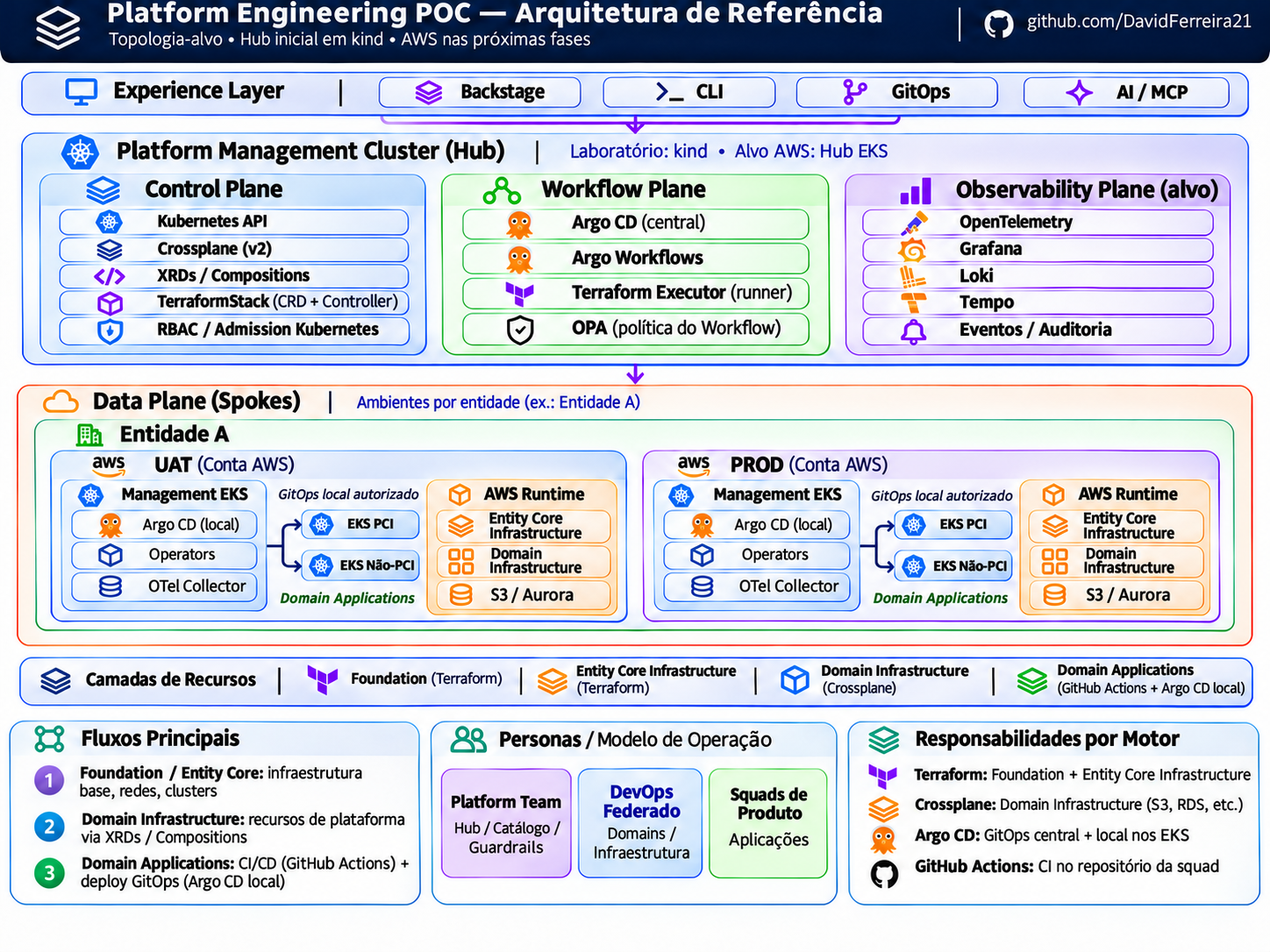
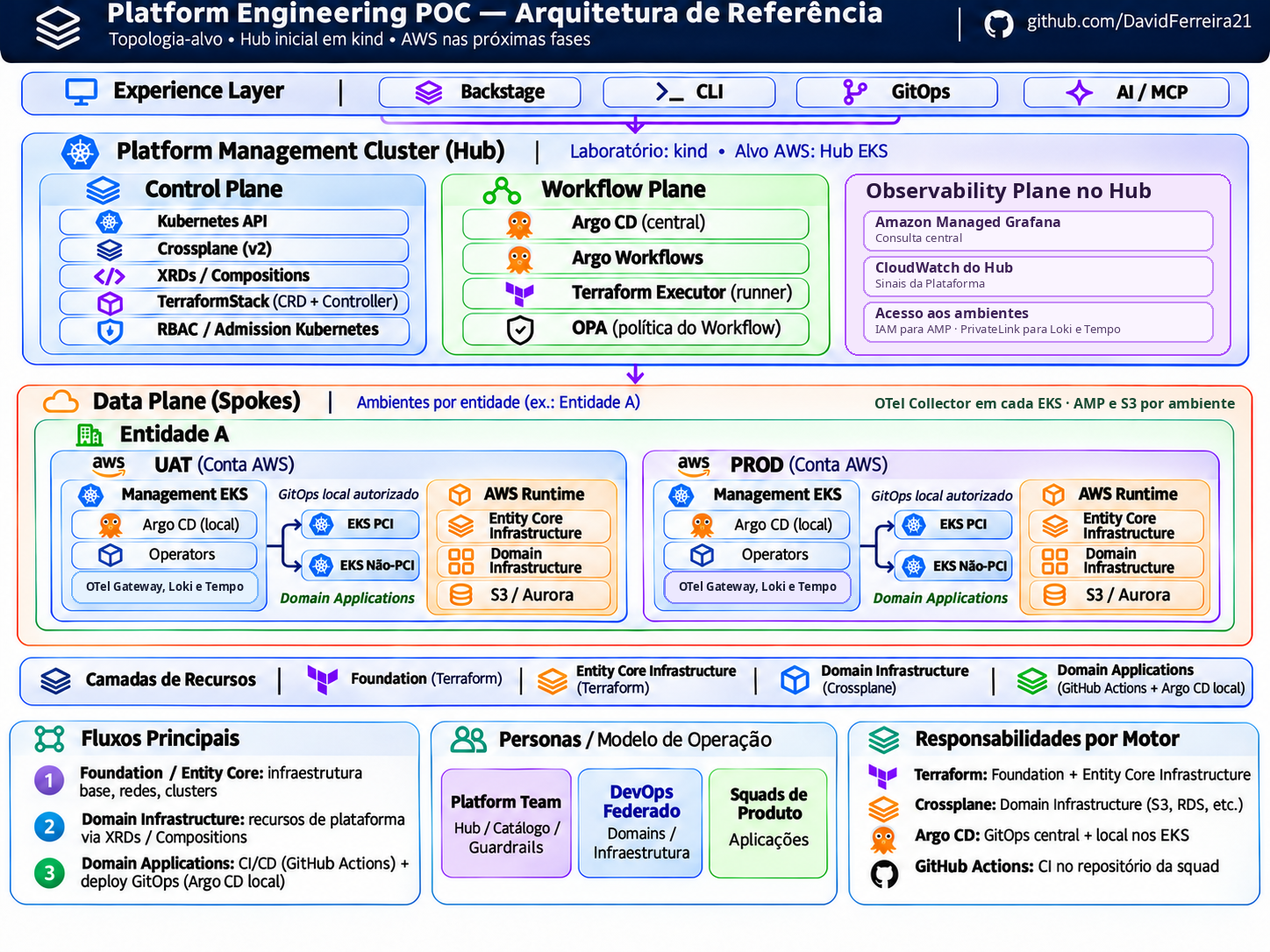
docs: registra a topologia de observabilidade da POC

diff --git a/docs/flows/observability.md b/docs/flows/observability.md
@@ -1,0 +1,48 @@
+# Fluxo de observabilidade
+
+[← Arquitetura](../architecture.md) · [ADR-0010](../adr/0010-observability-topology.md) · [Observability Plane](../../observability-plane/README.md)
+
+O fluxo descreve a **topologia-alvo da POC**. Os sinais do TerraformStack já existem no laboratório. A coleta e os backends AWS entram nas Etapas 26 e 27, começando em UAT. O diagrama mostra uma conta de Environment por vez. UAT e PROD seguem o mesmo modelo com recursos e permissões próprios.
+
+![Topologia de observabilidade com Grafana no Hub, Collectors nos três EKS do ambiente, AMP e backends Loki e Tempo no Management EKS](observability-flow.png)
+
+[Abrir diagrama em tamanho completo](observability-flow.png)
+
+## Caminhos de ingestão e consulta
+
+| Origem | Métricas | Logs e traces |
+| :--- | :--- | :--- |
+| EKS Non-PCI | OTel Collector local → AMP do ambiente via `remote_write` | OTel Collector local → OTel Gateway do Management EKS |
+| EKS PCI, após validação do isolamento | OTel Collector local → AMP autorizado | OTel Collector local → Gateway autorizado |
+| Management EKS | OTel Collector local → AMP do ambiente, incluindo o scrape do Argo CD local | OTel Collector local → Gateway no próprio cluster |
+| Hub da Plataforma | Métricas operacionais essenciais → CloudWatch do Hub | Logs e demais sinais operacionais aplicáveis → CloudWatch do Hub |
+
+O Gateway encaminha logs ao **Loki** e traces ao **Tempo**. Os dois backends rodam no Management EKS e persistem seus blocos no S3 do ambiente. Traces entram quando o componente estiver instrumentado e configurado para exportá-los. O Grafana consulta o AMP para métricas e as APIs de Loki e Tempo para logs e traces. O S3 é armazenamento dos backends, e o Gateway recebe telemetria.
+
+No Management EKS, por exemplo, o Argo CD local expõe métricas Prometheus de saúde e sincronização. O Collector faz o scrape e envia as séries diretamente ao AMP. O AMP armazena e disponibiliza séries para consulta, portanto o scrape pode funcionar com o Collector e sem um servidor Prometheus autogerenciado no cluster. [Métricas do Argo CD](https://argo-cd.readthedocs.io/en/stable/operator-manual/metrics/) · [Ingestão de métricas no AMP](https://docs.aws.amazon.com/prometheus/latest/userguide/AMP-ingest-methods.html)
+
+## Fronteiras e ownership
+
+| Recurso | Responsabilidade |
+| :--- | :--- |
+| Collectors, Gateway, Loki e Tempo | Platform Team define configuração e distribuição de add-ons por perfil via Argo CD central. |
+| AMP, S3, conectividade privada, Grafana e IAM | Platform Team provisiona os recursos AWS declarativamente por Terraform e concede acessos por origem e destino. |
+| Instrumentação da aplicação | A squad instrumenta código e configura a exportação no próprio repositório. Argo CD local entrega os manifests nos clusters autorizados. |
+| Alertas e dashboards | A plataforma mantém o baseline de coleta, saúde e falhas de ingestão. As squads definem os sinais da aplicação e os limites operacionais do seu Domain. |
+
+O Managed Grafana usa uma conexão à VPC da Plataforma para alcançar, via PrivateLink, as APIs privadas de leitura de cada ambiente. O desenho prevê interface endpoint na VPC do Hub e endpoint service com NLB e proxy autenticado na VPC do ambiente. O proxy limita o acesso a Loki e Tempo. O Grafana consulta o AMP pela API AWS, com IAM cross-account. Validar DNS, TLS, permissões, conectividade aos endpoints AWS e acesso por datasource na Etapa 26. [Conectividade VPC do Grafana](https://docs.aws.amazon.com/grafana/latest/userguide/AMG-configure-vpc.html) · [Serviços via PrivateLink](https://docs.aws.amazon.com/vpc/latest/privatelink/privatelink-share-your-services.html)
+
+Atribuir Entity, Environment, cluster e serviço aos sinais de forma consistente. Para diagnóstico, correlacionar estado e Events da API Kubernetes com a revisão Git, a aplicação Argo CD, a execução do Workflow e as condições do Crossplane. Aplicar políticas de conteúdo e acesso antes da ingestão e testar consulta com identidades de escopos distintos. Excluir credenciais, dados sensíveis, conteúdo de planos e state da telemetria. Preferir dimensões de cardinalidade controlada para métricas.
+
+## Critérios de aceite
+
+| Etapa | Evidência esperada |
+| :--- | :--- |
+| **26 — UAT** | Gerar métrica, log e trace correlacionáveis a partir de uma aplicação Non-PCI. Consultar os três no Grafana. Confirmar que métricas do Argo CD local chegam ao mesmo AMP via o Collector do Management EKS. Conferir que os sinais essenciais do Hub podem ser consultados no CloudWatch. |
+| **27 — Falha controlada** | Interromper o Gateway em UAT, confirmar novas amostras dos workloads no AMP e receber alerta por um check fora do Management EKS. Após recuperar o Gateway, medir o que ficou em fila e o que se perdeu em logs e traces. Registrar custo de ingestão, consulta e armazenamento. |
+| **30 — PCI, quando autorizado** | Testar acesso à ingestão e consulta com identidades PCI e Non-PCI. Confirmar que acessos indevidos são negados no backend e que permissões na fonte de dados refletem a fronteira aprovada. |
+| **31 — PROD, quando provisionado** | Validar workspaces, armazenamento, identidade e consultas segregadas. Repetir a falha controlada em UAT e confirmar continuidade dos sinais de PROD. |
+
+Quando o Management EKS inteiro estiver indisponível, Loki e Tempo também deixam de servir consultas temporariamente. Dados já persistidos ficam no S3 e as métricas já ingeridas ficam consultáveis no AMP. A retenção em fila é limitada pela configuração e pela capacidade do Collector. [Resiliência dos Collectors](https://opentelemetry.io/docs/collector/resiliency/) · [Permissões de datasources no Managed Grafana](https://docs.aws.amazon.com/grafana/latest/userguide/data-source-permissions.html)
+
+[← Arquitetura](../architecture.md) · [Etapas de observabilidade e operação](../learning-roadmap.md#fase-6--observabilidade-operação-e-governança)

diff --git a/docs/adr/0010-observability-topology.md b/docs/adr/0010-observability-topology.md
@@ -1,0 +1,36 @@
+# ADR-0010 — Observabilidade por ambiente com consulta central
+
+[← Decisões](README.md) · [Arquitetura](../architecture.md) · [Fluxo de observabilidade](../flows/observability.md)
+
+**Estado:** decisão aceita, implementação pendente · **Data:** 28/11/2026
+
+## Contexto
+
+A POC tem uma conta AWS da Plataforma e contas distintas para UAT e PROD. Cada Environment prevê um Management EKS, um EKS PCI e um EKS Non-PCI. O Management EKS executa o Argo CD local e concentra serviços de gestão do ambiente. A equipe precisa investigar aplicações, GitOps e provisionamento durante falhas do próprio Management EKS.
+
+Este ADR consolida a topologia de observabilidade descrita nos [ADR-0002](0002-topology-and-ownership.md), [ADR-0003](0003-reconciliation-and-gitops.md) e [ADR-0006](0006-terraformrun-and-application-ci.md). O [ADR-0008](0008-managed-argocd-connectivity.md) define a conectividade para GitOps.
+
+## Decisão
+
+- **Cada cluster coleta sua própria telemetria.** Management EKS, PCI e Non-PCI têm OTel Collectors locais no desenho-alvo. A coleta do Management EKS inclui as métricas Prometheus do Argo CD local e os sinais disponíveis dos add-ons.
+- **Métricas chegam diretamente ao AMP do ambiente.** Cada coletor envia via Prometheus `remote_write`, autenticado com IAM/SigV4. Um workspace do Amazon Managed Service for Prometheus (AMP) por Environment concentra as séries autorizadas. O Gateway do Management EKS fica fora do caminho de métricas dos workloads.
+- **Logs e traces são processados no ambiente.** Os coletores enviam ao OTel Gateway do Management EKS do próprio Environment. O Gateway encaminha logs ao Loki e traces ao Tempo. Os dois backends usam armazenamento S3 na mesma conta AWS.
+- **Amazon Managed Grafana no Hub é o ponto central de consulta.** O Grafana consulta os workspaces AMP via IAM cross-account e as APIs de leitura do Loki e Tempo por AWS PrivateLink, com conexão à VPC do Hub e um proxy autenticado no ambiente. Essa conexão é dedicada à observabilidade e preserva VPCs sem peering ou Transit Gateway.
+- **O Hub tem um caminho próprio.** CloudWatch recebe os sinais operacionais essenciais do Hub conforme a interface de cada componente. A investigação correlaciona logs, métricas e Events do TerraformStack com revisão Git, Workflow e condições do Crossplane. Para serviços AWS, usar compartilhamento via CloudWatch cross-account dentro da mesma região quando aplicável. Um check externo ao Management EKS sinaliza perda de ingestão.
+
+O Platform Team mantém a instrumentação-base, os add-ons e os acessos. Terraform provisiona os recursos AWS do plano; o Argo CD central distribui os componentes Kubernetes da plataforma via GitOps segundo o perfil de cada cluster. O Argo CD local entrega as aplicações do Domain. O mesmo recurso deve ter um único reconciliador.
+
+## Alternativas avaliadas
+
+| Alternativa | Avaliação |
+| :--- | :--- |
+| Roteamento dos três sinais pelo Management EKS | Simplifica o encaminhamento. Uma falha do Gateway interrompe também a ingestão de métricas dos workloads. |
+| Loki e Tempo compartilhados no Hub | Reduz o número de instalações. Amplia a dependência do Hub durante falhas e concentra tráfego e dados de ambientes distintos. |
+| AMP direto por ambiente e backends de logs/traces no Management EKS | Mantém a ingestão de métricas independente do Gateway e permite exercitar Loki e Tempo na POC com os clusters já planejados. |
+
+## Consequências e validação
+
+- Quando o Management EKS fica indisponível, os workloads que continuam em execução seguem enviando métricas ao AMP. O caminho de logs e traces fica indisponível até a recuperação do Gateway e dos backends. Medir filas, retries e perda. Testar a persistência da fila onde a recuperação após reinício for necessária.
+- Tratar o uso da mesma ingestão e dos mesmos backends por PCI e Non-PCI como hipótese do desenho. Antes de habilitar telemetria PCI, validar acesso de escrita e leitura, retenção, conteúdo permitido e a fronteira exigida. Se o requisito incluir isolamento de ingestão, armazenamento ou falhas, usar componentes separados para PCI. Permissões de painel do Grafana organizam a visualização; os controles de consulta devem ser aplicados à fonte de dados e ao backend.
+- Para uma operação de produção com requisitos mais fortes de disponibilidade, a ingestão e a consulta necessárias ao diagnóstico devem sobreviver à perda do cluster de gestão. Serviços gerenciados ou infraestrutura de observabilidade com ciclo de vida próprio são opções para esse cenário.
+- O aceite começa em UAT com Management e Non-PCI nas Etapas 26–27. PCI e PROD entram quando autorizados nas Etapas 30–31. A disposição dos componentes está decidida. Dimensionamento, retenção, custo e evidências de recuperação permanecem para as validações previstas. [Roteiro](../learning-roadmap.md#fase-6--observabilidade-operação-e-governança)

diff --git a/AGENTS.md b/AGENTS.md
@@ -24,7 +24,7 @@ Escrever os documentos **na voz do próprio projeto**, em português brasileiro 
 - **Entity / Environment / Domain:** conceitos lógicos e **registros declarativos no Git**. Entity organiza; Environment mapeia UAT/PROD à conta AWS/região; Domain é unidade de negócio, consumo, políticas e ownership de aplicações, namespaces e Capabilities. **Não criar CRD/XRD** para esses três na primeira etapa.
 - **Workflow Plane:** Argo CD central aplica CRs de Capability na Kubernetes API; Argo Workflows realiza Foundation e EKS por integrações cadastradas; o Terraform Executor e o handshake são usados na implementação de referência. Argo CD não executa Terraform. **Não implementar Environment Controller próprio como dependência inicial**.
 - **GitOps AWS:** adotar EKS Capability for Argo CD como Argo CD central no Hub EKS; manter Argo CD autogerenciado em kind e Argo CD local nos Management EKS. VPCs Platform/UAT/PROD isoladas com NAT, sem Peering/TGW. Registrar Hub e spokes por ARN, Access Entries e RBAC; não presumir conectividade de Pods. [ADR-0008](docs/adr/0008-managed-argocd-connectivity.md).
-- **Observability Plane:** métricas, logs, traces, eventos e auditoria.
+- **Observability Plane:** Managed Grafana e CloudWatch do Hub na conta da Plataforma. Cada EKS envia métricas direto ao AMP do ambiente. Logs e traces seguem pelo Gateway para Loki/Tempo no Management EKS, com S3 do ambiente. Validar ingestão e consulta antes de habilitar PCI. [ADR-0010](docs/adr/0010-observability-topology.md).
 - **Data Plane:** `data-plane/<entity>/core-infrastructure/{uat,prod}/` organiza recursos comuns; `data-plane/<entity>/domains/<domain>/` organiza uma identidade única e recursos/aplicações por ambiente. Ambos pertencem ao Data Plane; **Environment não equivale a Core**.
 - **Applications:** Argo CD local do Management EKS aplica namespaces, policies e workloads em PCI/Non-PCI **somente se o isolamento permitir**.
 - **Topologia-alvo:** UAT e PROD são contas AWS separadas; cada uma inclui Management EKS, EKS PCI, EKS Non-PCI e AWS Runtime. EKS Auto Mode preferido, sob validação de custo/operadores/PCI. Hub é `kind` inicialmente. Sem MSK na primeira versão.
@@ -42,7 +42,7 @@ Os YAMLs `domain.yaml` e `environment.yaml` são registros lógicos no Git. Vali
 - **Ownership padrão:** Foundation → Entity Core Infrastructure → Domain Infrastructure → **Domain Applications**.
 - **TerraformStack.** O CRD da Etapa 04 declara `sourceRef.repository/path/version` (default `latest`), `context` opcional, `workflowRef.name` opcional, `dependsOn`, `suspend`, `reconciliation` e `lifecycle`. O Argo CD central sincroniza a intenção. O controller da Etapa 05 agenda uma tentativa ativa por CR, via adapter Argo, sem interpretar contexto, Git, backend ou resultado de OPA. Integrações são cadastradas com aliases e default; `contract.authorization` tem default `true` e pode ser `false` por integração compatível. Sem handshake, o controller não infere apply nem cancela automaticamente a execução ativa; submissão ambígua ou Workflow perdido bloqueiam replay. A pipeline de referência da Etapa 06 resolve Git e destino, fixa o vínculo do state, aplica o plano autorizado após claim atômico e publica o resultado tipado. Preserve idempotência, plan imutável, isolamento e destroy governado. O primeiro apply aprovado na AWS entra na Etapa 13; drift e políticas, nas Etapas 28 e 29. Cada tentativa é um Argo Workflow; não criar outro CRD de execução. Logs JSON, Events e métricas de saúde por CR são responsabilidade passiva do controller em `internal/observability`, sem dependência de backends externos ou alteração do contrato. Não registrar segredos, tokens, planos ou state em telemetria. [Execution Contract](docs/flows/terraformstack-execution-contract.md)
 - **CI/CD de aplicação:** GitHub Actions **e os manifests Kubernetes da aplicação** deverão ficar junto ao código **no repositório de aplicação separado, previsto para etapa posterior**. Este monorepo mantém apenas manifests da **Domain Infrastructure**, configurações de plataforma e validações das etapas. Argo CD **local** entrega workloads via GitOps.
-- **Management EKS:** Argo CD local, espaço para **Operators ainda não escolhidos**, e **OpenTelemetry Collector/gateway** de telemetria para backend central **Grafana, Loki e Tempo**. Prometheus/métricas e segregação PCI serão validados.
+- **Management EKS:** Argo CD local, Operators a escolher, OTel Collector para os sinais do próprio cluster e OTel Gateway para logs e traces do Environment. O Collector coleta métricas do Argo CD local e as envia ao AMP. [Fluxo de observabilidade](docs/flows/observability.md).
 - Este projeto é uma POC pessoal e **não deve usar nomes/recursos corporativos**. Documentação de arquitetura não significa execução implantada.
 
 ## Etapas de personas e Golden Path

diff --git a/README.md b/README.md
@@ -10,7 +10,7 @@ Kubernetes, Terraform, Crossplane e Argo são os meios para percorrer esse camin
 2. Leia a [Arquitetura](docs/architecture.md). Use o diagrama de referência para entender a topologia, as três personas, a responsabilidade de cada plano e como Entity, Environment, Domain e Capability se relacionam.
 3. Siga o roteiro para acompanhar a construção da plataforma. Os guias mostram por que cada decisão foi tomada, como reproduzi-la e o que observar no sistema. [Roteiro prático](docs/learning-roadmap.md) · [Guias das etapas](labs/README.md)
 
-Para acompanhar como a arquitetura funciona, consulte os três fluxos técnicos: [GitOps Flow](docs/flows/gitops.md) ([diagrama PNG](docs/flows/gitops-flow.png)), [TerraformStack Flow](docs/flows/terraformstack.md) e [GitOps Bridge Flow](docs/flows/gitops-bridge.md). Cada documento diferencia decisões, padrões de referência e implementação atual no laboratório.
+Para acompanhar a arquitetura na prática, consulte [GitOps Flow](docs/flows/gitops.md) ([diagrama PNG](docs/flows/gitops-flow.png)), [TerraformStack Flow](docs/flows/terraformstack.md), [GitOps Bridge Flow](docs/flows/gitops-bridge.md) e [Fluxo de observabilidade](docs/flows/observability.md) ([diagrama PNG](docs/flows/observability-flow.png)).
 
 Para consultar detalhes, veja a [estrutura do monorepo](docs/repository-structure.md), as [decisões arquiteturais](docs/adr/README.md) e as [orientações para agentes](AGENTS.md).
 
@@ -75,8 +75,8 @@ A infraestrutura do Domain é simulada em **pastas do monorepo**, sob ownership 
 - **GitOps multicluster.** O Hub EKS adota EKS Capability for Argo CD, registro por ARN e Access Entries, e VPCs isoladas para Platform, UAT e PROD com saída via NAT. O Argo CD local entrega as Domain Applications nos destinos autorizados. [ADR-0008](docs/adr/0008-managed-argocd-connectivity.md)
 - **TerraformStack.** O CRD da Etapa 04 descreve a infraestrutura desejada e chega à API do Hub via Argo CD central. A Etapa 05 instala o controller Go (controller-runtime, Leader Election e watches) e a pipeline de referência do Argo Workflows. O controller reconcilia um Workflow ativo por CR e permite selecionar uma integração cadastrada por `spec.workflowRef.name`, com autorização operacional habilitada por padrão e opcional por integração. O adapter Argo traduz o contrato de execução. A pipeline de referência resolve Git, contexto e state e executa Terraform/OpenTofu, OPA e o handshake de autorização. Outras pipelines compatíveis podem escolher suas ferramentas. A Etapa 06 verifica políticas e drift no Simulator. O primeiro apply na AWS está previsto para a Etapa 13, com aprovação humana. As Etapas 28 e 29 tratam de drift e reconciliação por políticas na AWS. [Execution Contract](docs/flows/terraformstack-execution-contract.md) · [ADR-0009](docs/adr/0009-terraformstack-runtime.md)
 - **Domain Applications:** código Python, testes, **GitHub Actions**, Dockerfile e manifests Kubernetes no **repositório separado da squad** (Fase 5). CI publica imagem no Amazon ECR e propõe atualização declarativa de digest; o Argo CD local entrega a aplicação nos EKS autorizados.
-- **Observabilidade do TerraformStack:** logs JSON, Kubernetes Events e métricas nativas/customizadas por CR já fazem parte do controller; não dependem da instalação de coletores, Prometheus Server ou dashboards. A integração central permanece no roadmap. [Operação do controller](control-plane/terraformstack/controller/README.md)
-- **Management EKS:** Argo CD local, Operators **a escolher** e OpenTelemetry Collector/gateway para logs e traces; backend central com **Grafana + Loki + Tempo**. Estratégia de métricas/Prometheus em validação.
+- **Observabilidade do TerraformStack:** logs JSON, Kubernetes Events e métricas nativas/customizadas por CR já fazem parte do controller; não dependem da instalação de coletores, Prometheus Server ou dashboards. A integração dos sinais essenciais do Hub com CloudWatch entra nas Etapas 26–27. [Operação do controller](control-plane/terraformstack/controller/README.md)
+- **Observability Plane.** Collectors nos três EKS de cada ambiente enviam métricas direto ao AMP. Logs e traces passam pelo Gateway e pelos backends Loki/Tempo no Management EKS, com S3 na conta do ambiente. O Hub centraliza consultas no Managed Grafana. [ADR-0010](docs/adr/0010-observability-topology.md)
 - **Ownership:** Foundation → Entity Core Infrastructure → Domain Infrastructure → Domain Applications.
 
 [Decisão de personas e Golden Paths](docs/adr/0007-personas-and-developer-experience.md)

diff --git a/observability-plane/README.md b/observability-plane/README.md
@@ -1,22 +1,23 @@
 # 📊 Observability Plane
 
-## Stack-alvo da POC
+[← Início](../README.md) · [Arquitetura](../docs/architecture.md) · [Fluxo de observabilidade](../docs/flows/observability.md) · [ADR-0010](../docs/adr/0010-observability-topology.md)
 
-- **OpenTelemetry** — instrumentação, coleta, normalização e encaminhamento de telemetria.
-- **Grafana** — visualização, correlação e dashboards centralizados.
-- **Loki** — backend central de logs.
-- **Tempo** — backend central de traces.
-- **Métricas / Prometheus** — parte do desenho de referência, com arquitetura operacional e retenção a validar nos labs.
-- **Eventos e auditoria** — correlacionar revisão Git, Argo CD, `TerraformStack.status`, Workflow, executores, Crossplane e eventos AWS.
+## Topologia-alvo
 
-Cada **Management EKS** de UAT/PROD deverá ter um **OpenTelemetry Collector/gateway** (ou mecanismo equivalente a validar) para encaminhar a telemetria. **Operators locais permanecem a definir**. O plano central terá visibilidade das entidades, preservando segregação e permissões de ambientes e PCI/Non-PCI. Isso não exige executar Loki/Tempo dentro de cada Management EKS.
+A conta da Plataforma oferece consulta central com **Amazon Managed Grafana** e usa **CloudWatch** para os sinais essenciais do Hub. Cada conta UAT ou PROD tem seus próprios destinos de armazenamento. Os EKS Management, PCI e Non-PCI coletam a telemetria local com OpenTelemetry. A ativação do perfil PCI depende da validação da fronteira de isolamento.
+
+| Sinal | Destino no Environment |
+| :--- | :--- |
+| Métricas | Cada OTel Collector envia diretamente ao **Amazon Managed Service for Prometheus (AMP)** do ambiente. |
+| Logs | Gateway no Management EKS → **Loki** no mesmo cluster → **S3** do ambiente. |
+| Traces | Gateway no Management EKS → **Tempo** no mesmo cluster → **S3** do ambiente. |
+
+O Management EKS também gera telemetria. Seu Collector coleta métricas do Argo CD local e de outros add-ons e envia ao AMP. O Gateway recebe logs e traces locais e dos clusters de workloads. O Grafana consulta AMP via IAM cross-account e Loki/Tempo via PrivateLink.
 
 ## Sinais já disponíveis no TerraformStack
 
-O controller publica logs estruturados JSON em stdout, Events na API Kubernetes e métricas nativas/customizadas em `:8080/metrics`, incluindo condição, fase, drift pendente, horários e tentativas por CR. Os gauges são derivados do cache de status; contadores de transições são locais ao processo. O controlador não instala coletores, backends, ServiceMonitor, dashboards ou regras de alerta. A ausência de sinal de drift não significa convergência; falhas internas antes de persistir status exigem também logs e métricas do runtime. O operador decide como coletar e proteger o endpoint. [Catálogo de métricas e diagnóstico](../control-plane/terraformstack/controller/README.md#observabilidade-operacional).
+O controller publica logs estruturados JSON em stdout, Events na API Kubernetes e métricas nativas/customizadas em `:8080/metrics`, incluindo condição, fase, drift pendente, horários e tentativas por CR. Os gauges são derivados do cache de status e os contadores de transições são locais ao processo. Correlacionar ausência de sinal de drift com status, logs e métricas de runtime para diagnosticar falhas anteriores à persistência do status. [Catálogo de métricas e diagnóstico](../control-plane/terraformstack/controller/README.md#observabilidade-operacional)
 
 ## Etapas de aprendizado
 
-No Hub `kind`, o Simulator correlaciona revisão Git, Workflow, condições, horários de drift e auditoria da aprovação na API Kubernetes. A integração da coleta dos sinais existentes, a instalação dos Collectors, dos backends centrais e a instrumentação dos spokes entram nas Etapas 26 e 27. [Evidências locais](../labs/06-terraformstack-simulator.md#evidências-de-aceite).
-
-[← Página inicial](../README.md) · [Arquitetura](../docs/architecture.md) · [Roteiro](../docs/learning-roadmap.md)
+No Hub `kind`, o Simulator correlaciona revisão Git, Workflow, condições, horários de drift e auditoria da aprovação na API Kubernetes. Na AWS, as Etapas 26–27 integram coletores, backends, sinais do Hub e diagnóstico de perda de ingestão em UAT. As Etapas 30–31 validam as fronteiras PCI e PROD quando esses destinos forem autorizados e provisionados. [Evidências locais](../labs/06-terraformstack-simulator.md#evidências-de-aceite) · [Roteiro](../docs/learning-roadmap.md#fase-6--observabilidade-operação-e-governança)

diff --git a/docs/learning-roadmap.md b/docs/learning-roadmap.md
@@ -104,16 +104,16 @@ Construir uma aplicação **mínima e funcional** usando a infraestrutura pronta
 
 ## Fase 6 — Observabilidade, operação e governança
 
-Integrar a coleta e a visualização dos sinais já emitidos pelo TerraformStack e instrumentar os demais componentes implantados. O controller não depende de backends externos. Concluir as validações de lifecycle na AWS. Políticas preventivas essenciais já devem existir desde a introdução de cada componente; esta fase consolida diagnósticos e cenários mais avançados.
+Integrar a coleta e a visualização dos sinais do Hub e dos clusters do Environment. A Etapa 26 começa com Management e Non-PCI em UAT. As Etapas 30–31 ampliam a validação para PCI e PROD quando disponíveis. [ADR-0010](adr/0010-observability-topology.md) · [Fluxo e critérios de aceite](flows/observability.md) O controller não depende de backends externos. Concluir as validações de lifecycle na AWS. Políticas preventivas essenciais já devem existir desde a introdução de cada componente; esta fase consolida diagnósticos e cenários mais avançados.
 
 | Etapa | Entrega | Evidência |
 | :--- | :--- | :--- |
-| **26** | Telemetria de plataforma e aplicação | OpenTelemetry Collector/gateway no Data Plane e integração com Grafana, Loki e Tempo; logs/traces correlacionados da API, dos Workflows e dos controllers; consumir métricas nativas e por CR do TerraformStack, sem alterar sua reconciliação |
-| **27** | Diagnóstico, recuperação e custos | Investigar uma falha controlada, recuperar a operação e conferir rastreabilidade e custos AWS |
+| **26** | Telemetria do Hub e de UAT | Validar Collectors no Management e no Non-PCI, envio direto ao AMP e scrape do Argo CD local. Correlacionar métrica, log e trace de aplicação no Grafana. Conferir consultas do Grafana a Loki/Tempo via PrivateLink e os sinais essenciais do Hub no CloudWatch. |
+| **27** | Diagnóstico, recuperação e custos | Interromper o OTel Gateway em UAT, confirmar novas amostras no AMP e receber alerta externo ao Management EKS. Medir recuperação e perda de logs/traces, rastreabilidade e custo. |
 | **28** | Drift Detection do TerraformStack | Validar na AWS `driftCheckInterval` configurável, agendamento idempotente com jitter e verificação periódica; detectar alteração externa em stack UAT, registrar última/próxima checagem e condição/alerta **sem aplicar correção** |
 | **29** | Reconciliação, destroy e políticas | Ampliar as regras OPA da Etapa 13 e comprovar **Auto Apply / Require Approval / Deny** com três planos de teste e evidências da etapa alcançada; testar drift, `plan -destroy` explícito, destroy on deletion com finalizer, proteção de dependências, aprovação humana e bloqueio de ações sensíveis |
-| **30** | EKS PCI e isolamento PCI/Non-PCI em UAT | Reutilizar a **stack EKS** e habilitar PCI somente com autorização/custo aprovados; registrar com perfil restrito, aplicar addons autorizados e testar negações entre PCI e Non-PCI. Sem PCI real, declarar somente validação lógica, não isolamento operacional |
-| **31** | Registro de PROD e isolamento por Environment | Registrar conta PROD distinta, validar identity/mapping/negações e políticas UAT/PROD. Provisionamento real em PROD depende de autorização separada; não presumir EKS PROD já criado |
+| **30** | EKS PCI e isolamento PCI/Non-PCI em UAT | Reutilizar a **stack EKS** e habilitar PCI somente com autorização/custo aprovados; registrar com perfil restrito, aplicar add-ons autorizados e testar negações entre PCI e Non-PCI, incluindo escrita e consulta de telemetria. Sem PCI real, declarar somente validação lógica, não isolamento operacional |
+| **31** | Registro de PROD e isolamento por Environment | Registrar conta PROD distinta, validar identity/mapping/negações e políticas UAT/PROD. Após provisionamento autorizado, validar segregação de workspaces, armazenamento e consulta, e testar continuidade da telemetria PROD durante falha em UAT. |
 
 **Lifecycle de destruição na Etapa 29.** Validar na AWS o destroy explícito e o destroy na exclusão com finalizer. O Simulator já exercita os dois caminhos com plano salvo, proteção de dependências e aprovação humana. A exclusão padrão retém o recurso. A validação AWS inclui a política de retenção/orphan e usa o controller e a pipeline aprovados no Hub. [Dependências e destruição](flows/terraformstack.md#5-dependências-e-destruição)
 

diff --git a/docs/adr/0002-topology-and-ownership.md b/docs/adr/0002-topology-and-ownership.md
@@ -2,7 +2,7 @@
 
 **Estado:** decisão vigente, implementação pendente · **Data:** 19/11/2026
 
-**Decisão:** a taxonomia tem **Experience Layer, Control Plane, Workflow Plane, Observability Plane e Data Plane**. O Hub (`kind` inicialmente) hospeda os planos centrais. Uma **Entity** possui UAT/PROD (contas AWS distintas no alvo), cada um com três EKS — Management, PCI, Non-PCI — e AWS Runtime. Essa topologia é replicável; sete clusters é apenas a contagem de uma entidade mais Hub. Hub-and-Spoke não significa rede AWS.
+**Decisão:** a taxonomia tem **Experience Layer, Control Plane, Workflow Plane, Observability Plane e Data Plane**. O Hub (`kind` inicialmente) hospeda Control Plane e Workflow Plane. O Observability Plane tem consulta central e componentes por Environment. Uma **Entity** possui UAT/PROD (contas AWS distintas no alvo), cada um com três EKS — Management, PCI, Non-PCI — e AWS Runtime. Essa topologia é replicável; sete clusters é apenas a contagem de uma entidade mais Hub. Hub-and-Spoke não significa rede AWS.
 
 As **três personas** são **Platform Team**, **Federated DevOps Team** e **Application Team**. Seus níveis de abstração diferem: a plataforma constrói os contratos e motores, o federado opera as intenções de infraestrutura do Domain e o desenvolvimento concentra-se no código e no ciclo da aplicação. Ver [ADR-0007](0007-personas-and-developer-experience.md).
 
@@ -10,7 +10,7 @@ As quatro camadas de ownership são **Foundation** (equipe central, Terraform), 
 
 **Organização Git (decisão atual):** monorepo com `data-plane/<entity>/core-infrastructure/{uat,prod}` para Core e `data-plane/<entity>/domains/<domain>/{uat,prod}/infrastructure` para Capabilities **mantidas pelo DevOps Federado**. Código, GitHub Actions e manifests de Domain Applications ficam em **repositório separado da aplicação**, sob a squad. O antigo diretório `applications/` no monorepo era apenas exemplo de estrutura-alvo, agora substituído. A identidade `domain.yaml` aparece uma vez. Foundation/config fica no escopo central. Environment representa a conta inteira, não somente o Core.
 
-**Complemento (21/11/2026):** o Management EKS de cada Environment contempla Argo CD local, **Operators ainda a escolher** e **OpenTelemetry Collector/gateway**. Grafana, Loki e Tempo fazem parte da observabilidade centralizada. O AWS Runtime cobre Core compartilhado e recursos dos Domains, com ownership exclusivo por motor. Ver [ADR-0006](0006-terraformrun-and-application-ci.md).
+**Management EKS e AWS Runtime.** O Management EKS de cada Environment contempla Argo CD local, Operators a escolher, OTel Collector e os serviços locais de logs e traces. O [ADR-0010](0010-observability-topology.md) define a localização de Gateway, Loki e Tempo, o envio direto ao AMP e a consulta pelo Grafana. O AWS Runtime cobre Core compartilhado e recursos dos Domains, com ownership exclusivo por motor. [ADR-0006](0006-terraformrun-and-application-ci.md)
 
 **Consequências:** CODEOWNERS/paths simulam papéis, mas não substituem rulesets, RBAC e IAM. MSK fora do escopo inicial; recurso compartilhado tem lifecycle próprio. Não criar diretórios vazios prematuramente.
 

diff --git a/docs/flows/terraformstack.md b/docs/flows/terraformstack.md
@@ -127,7 +127,7 @@ Correlacione `status.observedGeneration` com a geração do CR e `status.resolve
 
 ## 7. Operação do controller
 
-O manager usa quatro workers por padrão, Leader Election por Lease e duas réplicas, com apenas um líder ativo. A API Kubernetes conserva a intenção e o claim com resourceVersion; o controller lê diretamente a stack, o Workflow e as dependências antes de autorizar mudanças; o cache/index é usado nos watches. O controller publica logs JSON, Kubernetes Events e métricas nativas e customizadas em `:8080/metrics`, com probes em `:8081`. `internal/observability` deriva gauges do status no cache e emite contadores de transições persistidas. A coleta central, dashboards e alertas permanecem opcionais e a integração da POC com backends externos fica na fase de observabilidade. Consulte o [catálogo de métricas e diagnóstico](../../control-plane/terraformstack/controller/README.md#observabilidade-operacional). Mudanças na configuração do controller são aplicadas por rollout. [Implementação Go](../../control-plane/terraformstack/controller/README.md)
+O manager usa quatro workers por padrão, Leader Election por Lease e duas réplicas, com apenas um líder ativo. A API Kubernetes conserva a intenção e o claim com resourceVersion; o controller lê diretamente a stack, o Workflow e as dependências antes de autorizar mudanças; o cache/index é usado nos watches. O controller publica logs JSON, Kubernetes Events e métricas nativas e customizadas em `:8080/metrics`, com probes em `:8081`. `internal/observability` deriva gauges do status no cache e emite contadores de transições persistidas. A integração dos sinais do Hub com CloudWatch está prevista nas Etapas 26–27, conforme o [fluxo de observabilidade](observability.md). Consulte o [catálogo de métricas e diagnóstico](../../control-plane/terraformstack/controller/README.md#observabilidade-operacional). Mudanças na configuração do controller são aplicadas por rollout. [Implementação Go](../../control-plane/terraformstack/controller/README.md)
 
 ## 8. Evolução na AWS
 

diff --git a/docs/adr/0003-reconciliation-and-gitops.md b/docs/adr/0003-reconciliation-and-gitops.md
@@ -10,7 +10,7 @@
 
 **TerraformStack.** O CRD declara a infraestrutura desejada. O Argo CD central sincroniza o CR e o controller agenda tentativas em Argo Workflows. Cada CR conserva uma tentativa ativa, selecionando um alias de integração ou o default. A pipeline de referência resolve a fonte e o destino, gera o plano e consulta OPA. Seu apply usa o plano autorizado depois do claim da execução. Integrações alternativas podem desabilitar o handshake sem impor ou remover gates internos. O Simulator valida aplicação automática, aprovação, bloqueio e drift no Hub local. [ADR-0006](0006-terraformrun-and-application-ci.md) · [ADR-0009](0009-terraformstack-runtime.md).
 
-**Telemetria.** O TerraformStack já expõe logs JSON, Events e métricas nativas e por CR, sem dependência de backends. O desenho AWS prevê OpenTelemetry Collector nos Management EKS com destino central em Grafana, Loki e Tempo.
+**Telemetria.** O TerraformStack já expõe logs JSON, Events e métricas nativas e por CR, sem dependência de backends. O desenho AWS prevê um Collector em cada EKS do Environment e envio direto ao AMP. Logs e traces seguem para o Gateway no Management EKS e a visualização é centralizada no Managed Grafana. A telemetria essencial do TerraformStack no Hub segue para CloudWatch. [ADR-0010](0010-observability-topology.md)
 
 **Consequências:** Crossplane não monitora Git, apenas a API. Credenciais IAM precisam de associação autorizada por Environment e validação de Domain. O Argo CD local pode precisar de segregação de acesso PCI. Terraform só converge quando é executado; indisponibilidade do Hub interrompe reconciliação das Capabilities centrais, não necessariamente os workloads.
 

diff --git a/docs/adr/0008-managed-argocd-connectivity.md b/docs/adr/0008-managed-argocd-connectivity.md
@@ -14,7 +14,7 @@ A POC possui três contas AWS (Platform, UAT e PROD), cada uma com sua VPC isola
 - Registrar explicitamente o Hub e os clusters remotos por ARN. Criar Access Entries nos destinos para a IAM Capability Role da conta Platform e conceder RBAC adequado ao escopo. O serviço AWS fornece conectividade gerenciada; a CLI ou o Secret de cluster apenas registra o destino.
 - Usar ApplicationSets com labels de Entity, Environment e perfil para distribuir add-ons e configurações de plataforma. Usar AppProjects e permissões de destino para limitar o alcance.
 - Manter Argo CD local no Management EKS de cada Environment para Domain Applications, com acesso aos EKS de sua própria VPC conforme autorização. O Argo central instala e mantém sua configuração-base; nenhum recurso terá dois reconciliadores GitOps.
-- Crossplane, Argo Workflows e TerraformStack Controller permanecem autogerenciados no Hub. A conectividade da capability não é um túnel genérico para Pods, kubectl, bancos de dados ou telemetria. Fluxos de observabilidade e acesso operacional privado exigem soluções próprias, sem presumir roteamento entre VPCs.
+- Crossplane, Argo Workflows e TerraformStack Controller permanecem autogerenciados no Hub. A conectividade da capability não é um túnel genérico para Pods, kubectl, bancos de dados ou telemetria. Fluxos de observabilidade e acesso operacional privado exigem soluções próprias. A consulta de Loki e Tempo pelo Grafana usa PrivateLink conforme o [ADR-0010](0010-observability-topology.md).
 
 ## Implementação e evidências
 

diff --git a/data-plane/README.md b/data-plane/README.md
@@ -6,7 +6,7 @@ O Data Plane é composto de **Entities**, com Environments UAT/PROD e duas área
 
 ## Management EKS e AWS Runtime (topologia-alvo)
 
-Em cada conta UAT/PROD, a topologia prevê **Management EKS**, **EKS PCI** e **EKS Non-PCI**. O Management EKS será o ponto local de **Argo CD**, **Operators ainda a estudar** e **OpenTelemetry Collector/gateway** para encaminhar logs, métricas e traces. A visão centralizada ficará no Observability Plane do Hub; não pressupor uma instalação de Loki em cada ambiente.
+Em cada conta UAT/PROD, a topologia prevê **Management EKS**, **EKS PCI** e **EKS Non-PCI**. O Management EKS hospeda o **Argo CD local**, Operators a escolher e os backends de logs e traces do ambiente. Cada cluster coleta sua própria telemetria e envia métricas direto ao **AMP da conta**. Logs e traces seguem ao Gateway do Management EKS e são armazenados por Loki/Tempo no S3 da conta. O perfil de telemetria de PCI depende da validação de isolamento. [Fluxo de observabilidade](../docs/flows/observability.md)
 
 O **AWS Runtime** engloba Core Infrastructure (recursos compartilhados) e Domain Infrastructure (recursos de cada domínio). **Terraform** cria Foundation e Entity Core como rede, dependências e EKS; **Crossplane** reconcilia Capabilities AWS de Domain, e pode operar Capabilities comuns quando o ownership for explícito. Um recurso não terá Terraform e Crossplane como owners simultâneos.
 
